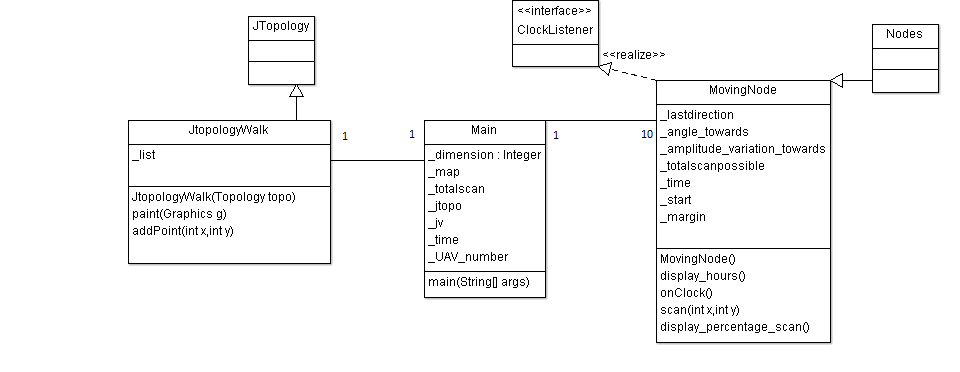
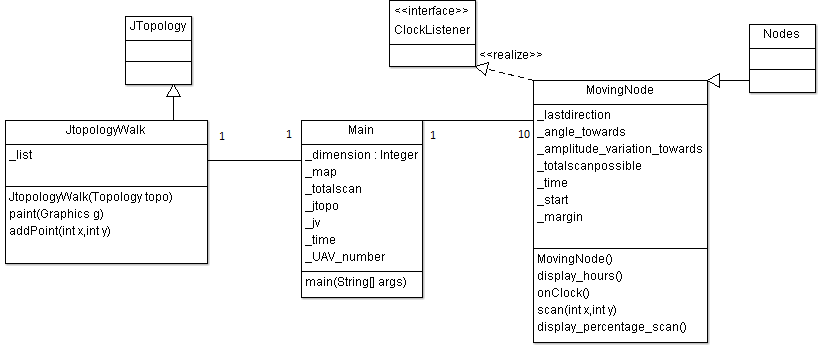
Image retouché + ajout de référence aux images

diff --git a/ressources/rapport/results.tex b/ressources/rapport/results.tex
@@ -9,15 +9,17 @@
 The goal of the UAVs is to scan the full map once per hour. In theory, with a speed of 150 km/h, the maximum scan speed is 0.083 km\textsuperscript{2}/second/UAV. So with an area of 900 km\textsuperscript{2}, the fastest time to cover the full area is 18 minutes. The figure \ref{randomcoverage} and the figure \ref{pheromonecoverage} represent the coverage data from the mobility models.
 
 \begin{figure}[h]
-\caption{\label{randomcoverage} Random mobility coverage}
+\centering
    \includegraphics{../images/random_coverage.png}
+   \caption{\label{randomcoverage} Random mobility coverage\cite{UAV}}
 \end{figure}
 
 \newpage
 
 \begin{figure}[!h]
-\caption{\label{pheromonecoverage} Pheromone mobility coverage}
+   \centering
    \includegraphics{../images/pheromone_coverage.png}
+   \caption{\label{pheromonecoverage} Pheromone mobility coverag\cite{UAV}}
 \end{figure}
 
 For the random model, we see that it need more than 83 minutes to reach 80 percents of coverage. Whereas the pheromone model reach the 90 percents in 60 minutes. Comparing the two models, the pheromone model has a much higher coverage rate.
@@ -31,19 +33,22 @@ So to meet with the requirement of one scan of the map per hour, the curve must 
 \newpage
 
 \begin{figure}[!h]
-\caption{\label{randomchar} Random mobility}
+\centering
    \includegraphics{../images/random_scan_characteristic.png}
+\caption{\label{randomchar} Random mobility\cite{UAV}}
 \end{figure}
 
 \begin{figure}[!h]
-\caption{\label{pheromonechar} Pheromone mobility}
+   \centering
    \includegraphics{../images/pheromone_scan_characteristic.png}
+\caption{\label{pheromonechar} Pheromone mobility\cite{UAV}}
 \end{figure}
 
 \subsection{Never scanned area}
 
 In this tableau below, we can see the results about the percentage of the map never scanned.\\
 
+\begin{center}
 \begin{tabular}{|c|c|c|c|}
 \hline
 	      & Max & Median & Min \\
@@ -52,7 +57,8 @@ In this tableau below, we can see the results about the percentage of the map ne
 	\hline
 	Pheromone & 0.21\% & 0.03\% & 0.01\% \\
 	\hline
-\end{tabular}\\\\
+\end{tabular}
+\end{center}
 
 It represents the maximum, median and minimum uncovered area for the ten runs. These numbers clearly show the ability of the pheromone model to cover the complete area. 
 
@@ -61,15 +67,15 @@ It represents the maximum, median and minimum uncovered area for the ten runs. T
 \subsection{Connectivity}
 
 \begin{figure}[!h]
-\caption{\label{randomconnect} Random. Number of UAVs in contact with C\&C (max, average, min)}
    \includegraphics{../images/random_resultat_connectivite.png}
+\caption{\label{randomconnect} Random. Number of UAVs in contact with C\&C (max, average, min)\cite{UAV}}
 \end{figure}
 
 \newpage
 
 \begin{figure}[!h]
-\caption{\label{pheromoneconnect}Pheromone. Number of UAVs in contact with C\&C (max, average, min)}
    \includegraphics{../images/pheromone_resultat_connectivite.png}
+\caption{\label{pheromoneconnect}Pheromone. Number of UAVs in contact with C\&C (max, average, min)\cite{UAV}}
 \end{figure}
 
 In Figure \ref{randomconnect} and Figure \ref{pheromoneconnect},we can see the number of UAV wich can communicate with the C\&C.  The  graphs  show the maximum, average, and minimum of this number for the ten runs. We saw that both models don't provide good connectivity. There are not enough UAV to have a fully connected communication graph. Because of the pheromone logic that pushes the UAVs away from each other, this model have low connectivity. Whereas the random model have a high connectivity at the beginning of the run. Then with the random trajectory of each UAV, they move away from each others and finally this model finishes to have the same poor connectivity as the pheromone model.

diff --git a/ressources/rapport/works_done.tex b/ressources/rapport/works_done.tex
@@ -13,7 +13,6 @@ During two and a half months of this project, we implemented both models which w
 \subsubsection{Random Model}
 
 \begin{figure}[h]
-\center
 \includegraphics[scale=0.7]{../images/DiagrammedeclassesRandom.png}
 \caption{\label{RandomWalkDIA}Diagram of class Random model}
 \end{figure}
@@ -25,7 +24,6 @@ The description of all the classes will be made in the next section of this chap
 \subsubsection{Pheromone model}
 
 \begin{figure}[h]
-\center
 \includegraphics[scale=0.6]{../images/DiagrammedeclassesPheromone.png}
 \caption{\label{RandomWalkDIA}Diagram of class Pheromone model}
 \end{figure}
@@ -49,8 +47,8 @@ As indicated in the article, the nodes of the random model change actions every 
 
 \begin{figure}[h]
 \center
-\includegraphics{../images/table_random.png}
-\caption{Random model}
+\includegraphics[width=15cm]{../images/table_random.png}
+\caption{UAV random action table\cite{UAV}}
 \end{figure}
 
 In our implementation, we have a variable \textit{lastdirection} allowing to know the last action which was made. We associated figures with the last actions. If the last direction was the left, then the variable \textit {lastdirection} takes the value 1, if it was straight, then we associate the value 2, and if it was to the right, we associate the value 3.\\
@@ -80,7 +78,13 @@ The method which is going to change compared with the random model is the method
 \begin{figure}[!h]
 \center
 \includegraphics{../images/pheromon_model.png}
-\caption{Pheromone model}
+\caption{Pheromone search pattern\cite{UAV}}
+\end{figure}
+
+\begin{figure}[!h]
+\center
+\includegraphics{../images/pheromone_table.png}
+\caption{UAV pheromone action table\cite{UAV}}
 \end{figure}
 
 We handled all the cases described in the article, meaning node looks at the values of pheromones in its left diagonal, in front of him and in its right diagonal.

diff --git a/ressources/rapport/appendix.tex b/ressources/rapport/appendix.tex
@@ -132,13 +132,14 @@ Indeed, it allows us :\\
 ~\\
 
 \begin{figure}[!h]
-\caption{\label{Milestones}Progress state of Milestones}
    \includegraphics[scale=0.7]{../images/Milestones.png}
+\caption{\label{Milestones}Progress state of Milestones}
 \end{figure}
 
 \begin{figure}[!h]
-\caption{\label{Tasks}Example of Tasks}
+\center
    \includegraphics[scale=0.7]{../images/tasks.png}
+\caption{\label{Tasks}Example of Tasks}
 \end{figure}
 
 

diff --git a/ressources/rapport/report.tex b/ressources/rapport/report.tex
@@ -35,8 +35,6 @@
 \usepackage{listing}
 \usepackage{wrapfig}
 \usepackage{appendix}
-\setcounter{secnumdepth}{4}
-\setcounter{tocdepth}{4}
 
 \author{CASTAGNET Florian, ETCHEVERRY Jérémy, PAZIEWSKI Hayley, TESSIER Alexis et TESTA Mickael}
 
